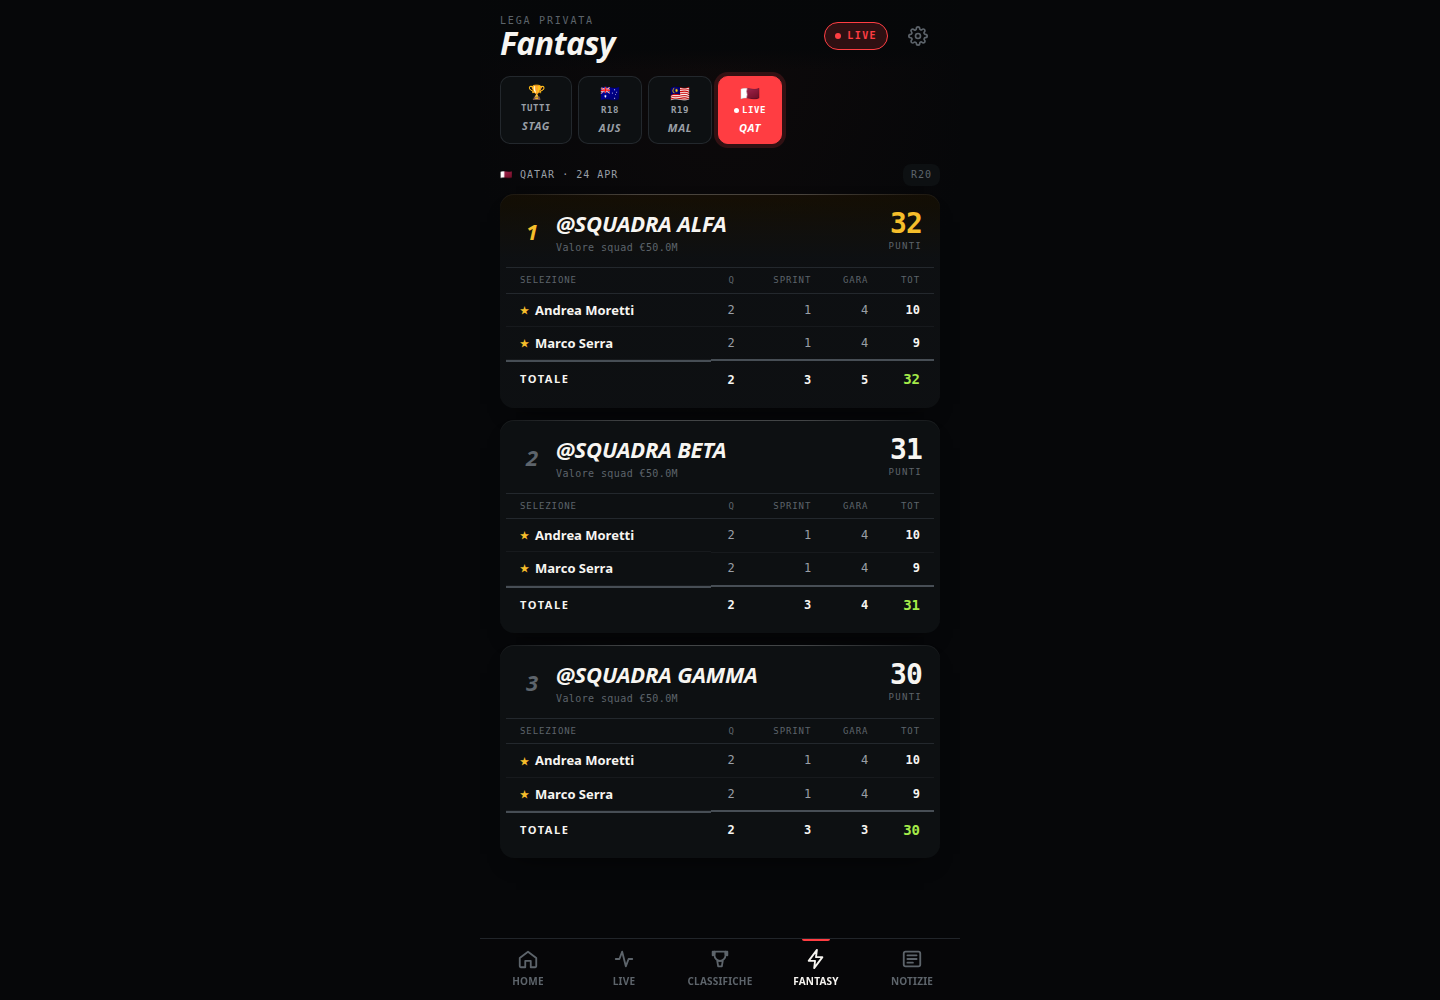
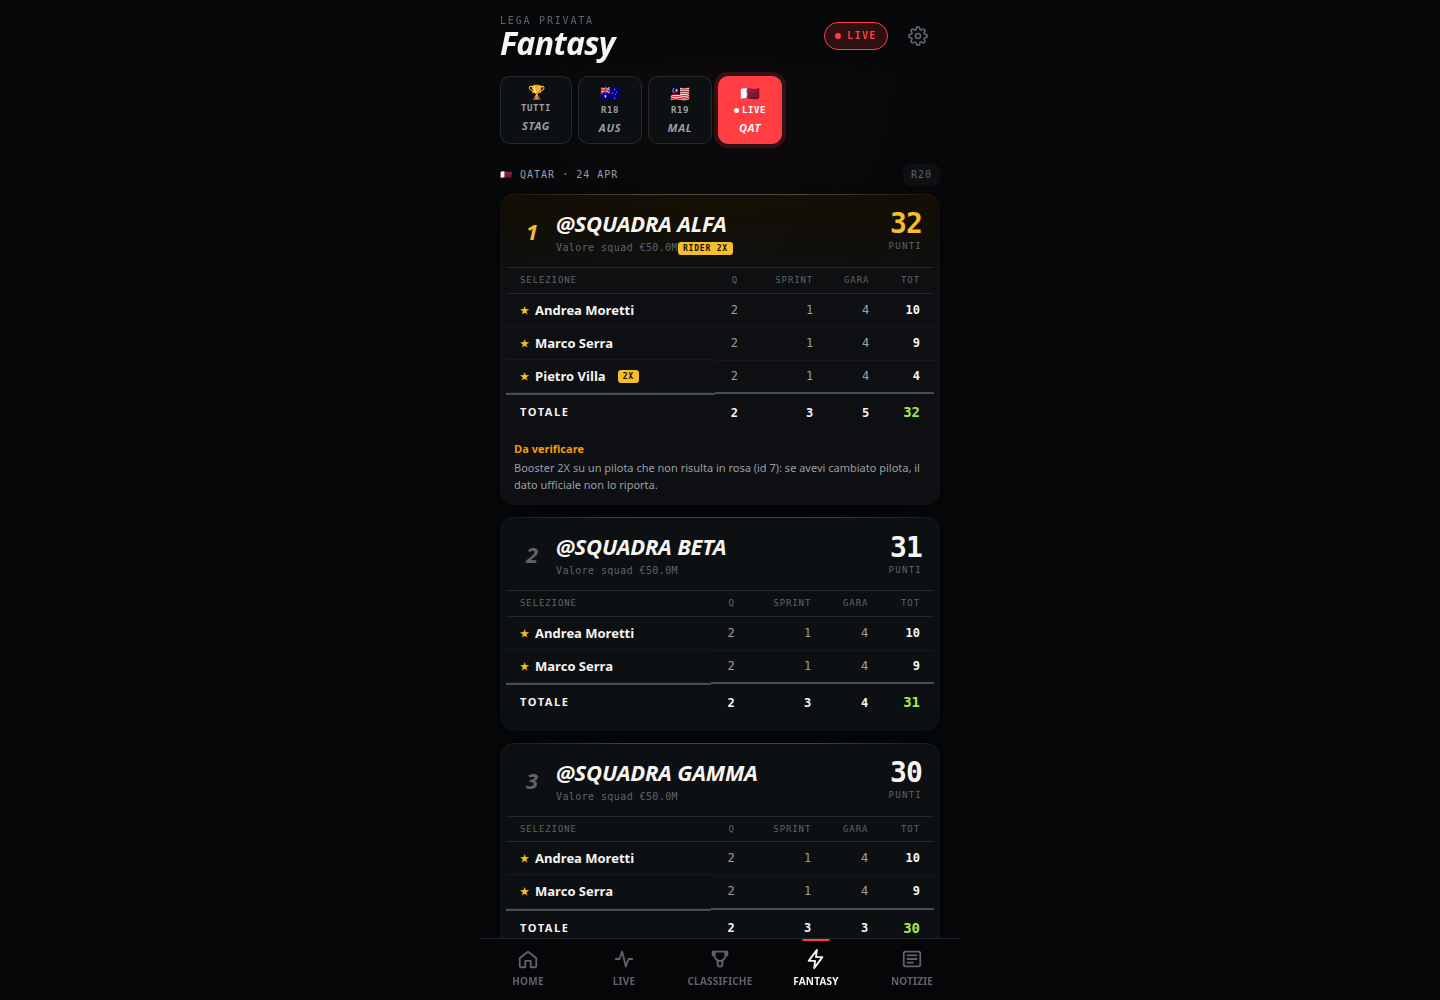
docs: allinea forma del repository, dipendenze e anteprime con avvisi visibili
- Riformulato il README secondo lo standard essenziale di Guardian Lab:
  badge versione 2.2.0, apertura diretta, sezione rapida di test ed
  esecuzione locale, spiegazione trasparente del perche' segnaliamo i
  dati non coerenti invece di riscriverli, e limiti dichiarati una volta sola.
- Aggiornato ARCHITETTURA.md alla cache boxbox-public-v22.
- Dichiarate esplicitamente in scraper/package.json le dipendenze:
  playwright-core per il rinnovo sessione headless e playwright per i test.
- Aggiornata la fixture sintetica di scraper/test-browser.mjs per includere
  una squadra con avviso: le anteprime di GP in docs/verifiche/ mostrano
  ora visivamente la card «Da verificare».
- Rimossi i sei commenti con firma assistente nel codice sorgente,
  sostituiti con la spiegazione tecnica del vincolo.

diff --git a/tab-fantasy.js b/tab-fantasy.js
@@ -162,7 +162,7 @@ export function renderSeasonView(players) {
     pricesCard());
 }
 
-// Recuperata 2026-08-08 (Claude): persa nella riscrittura dell'8/08 (commit 8f1f6f0), il backend
+// Ricostruzione della classifica aggregata quando il backend espone solo i parziali per GP: il backend
 // (compute.mjs) continuava a produrre il flag `upcoming` senza che nessuna UI lo consumasse.
 // Codice del 7/06 (commit 12ad823), invariato salvo dove annotato sotto.
 export function renderUpcomingEventView(evMeta, _ev) {
@@ -334,7 +334,7 @@ function testoAvviso(avviso) {
 export function renderEventView(evId, _players) {
   const ev = DATA.breakdown.byEvent[evId];
   const evMeta = DATA.events.find(e => e.id === evId);
-  // Bugfix 2026-08-08 (Claude): guardia evMeta ripristinata (mancava, evMeta.circuit sotto
+  // Guardia se evMeta non e' presente nel calendario (evMeta.circuit sotto
   // esploderebbe) e dispatch upcoming spostato PRIMA della guardia su standings vuote -- un GP
   // upcoming ha standings vuote per definizione, cadeva nel ramo "Nessun dato per questo GP".
   // In 12ad823 la guardia evMeta faceva `root.innerHTML = ...; return;` ma `root` non e' definito

diff --git a/README.md b/README.md
@@ -1,164 +1,127 @@
-# Box Box 🏍
+# Box Box 🏎
 
-![Vanilla JS](https://img.shields.io/badge/frontend-vanilla%20JS-f7df1e?logo=javascript&logoColor=black)
-![ES Modules](https://img.shields.io/badge/modules-native%20ES-3178c6)
-![Node.js](https://img.shields.io/badge/pipeline-Node.js-339933?logo=node.js&logoColor=white)
+![Version](https://img.shields.io/badge/version-2.2.0-blue)
+![Status](https://img.shields.io/badge/status-private%20league-blue)
+![Frontend](https://img.shields.io/badge/frontend-vanilla%20JS-f7df1e?logo=javascript&logoColor=black)
+![Modules](https://img.shields.io/badge/modules-native%20ES-3178c6)
+![Pipeline](https://img.shields.io/badge/pipeline-Node.js-339933?logo=node.js&logoColor=white)
 ![Docker](https://img.shields.io/badge/deploy-Docker-2496ed?logo=docker&logoColor=white)
 ![PWA](https://img.shields.io/badge/-PWA-5a0fc8?logo=pwa&logoColor=white)
-![License: MIT](https://img.shields.io/badge/license-MIT-green)
+![License](https://img.shields.io/badge/license-MIT-green)
 
-PWA per seguire la MotoGP 2026 e la classifica FantasyGP di una lega privata tra amici.
+PWA e pipeline dati per seguire la MotoGP e il campionato Fantasy in una lega privata tra amici.
 
-**Perché esiste**: l'app ufficiale Fantasy MotoGP è lenta e piena di pubblicità. Volevo
-qualcosa di veloce, leggero, che funzionasse anche offline — e che mi dicesse subito da dove
-arrivano i punti (quali, sprint, gara, bonus), non solo il totale.
+L'ho costruita perche' l'app ufficiale Fantasy MotoGP e' lenta, piena di annunci e mostra solo il punteggio aggregato. Volevo un'interfaccia leggera e consultabile offline che spiegasse subito da dove arrivano i punti: qualifiche, sprint, gara e bonus, pilota per pilota.
 
-**Disclaimer**: progetto personale, non affiliato a Dorna Sports / MotoGP. Usa le API
-pubbliche/autenticate di `fantasy.motogp.com`: rispetta i loro Termini di Servizio.
+> **Contesto e note legali.** Progetto personale per uso privato, non affiliato a Dorna Sports o MotoGP. Raccoglie i dati tramite le API di `fantasy.motogp.com` per i soli partecipanti alla lega.
 
-## Funzionalità
+## Provalo in due minuti
 
-- Calendario MotoGP 2026 con countdown al prossimo GP e stato live durante il weekend
-- Scheda Live: sessioni del weekend, ordine di arrivo e stato di ciascuna sessione
-- Classifica FantasyGP della lega, con breakdown punti per componente (Quali/Sprint/Gara/Bonus)
-- Andamento punti per GP, giocatore per giocatore
-- Prezzi & valore: chi sale/scende di prezzo, miglior rapporto punti/milione
-- Dettaglio pilota: andamento per GP, storico prezzo, forma recente
-- Classifiche Moto2, Moto3, WorldSBK
-- News da Motorsport.com in una scheda dedicata, con segnale di sentiment per pilota via LLM
-  (NVIDIA NIM) quando disponibile — degradazione soft se la chiave API non è configurata
-- Notifica su Discord quando un rivale della lega cambia roster prima del lock squadra
-- Notifiche in-app (Notification API) durante i weekend di gara
-- PWA installabile, funzionamento offline via service worker
+Per eseguire i test deterministici non servono credenziali, Docker o accessi di rete:
 
-## Anteprime
+```bash
+# 1. Esegui la suite di test (booster, ordinamento eventi, contratto LLM)
+bash scraper/test-audit.sh
 
-Immagini generate da `scraper/test-browser.mjs` con dati sintetici: nessun nome di giocatore reale,
-nessuna richiesta a servizi esterni. Altre viste in `docs/verifiche/`.
+# 2. Genera le 16 schermate con Chromium headless su dati sintetici
+node scraper/test-browser.mjs
 
-| Home | Live | Fantasy |
-| --- | --- | --- |
-| <img src="docs/verifiche/home-mobile.png" width="250" alt="Home: GP in corso, top 3 di stagione, leader fantasy"> | <img src="docs/verifiche/live-mobile.png" width="250" alt="Live: sessioni del weekend e tabellone della sessione in corso"> | <img src="docs/verifiche/fantasy-mobile.png" width="250" alt="Fantasy: andamento punti per GP e prezzi dei piloti"> |
+# 3. Avvia il server statico locale per navigare l'app
+python3 -m http.server 8080
+```
 
-## Stack
+Apri `http://localhost:8080`: il frontend viene eseguito direttamente dal browser senza alcuno step di compilazione.
 
-- **Frontend**: HTML/CSS/JS vanilla, **ES module nativi** (`<script type="module">`,
-  `import`/`export`) — zero dipendenze, **zero build step**. Il browser esegue i moduli così
-  come sono; il deploy è semplicemente copiare i file su un server statico.
-- **Pipeline dati**: Node.js, zero dipendenze runtime, `type: module`
-- **Server**: Docker, `nginx:alpine`
-- **PWA**: Service worker con cache network-first per i dati, cache-first per la shell
-- **Automazione**: cron adattivo (cadenza diversa idle → weekend di gara → pre-lock squadra),
-  rinnovo automatico della sessione via Playwright/Chrome DevTools Protocol
+## Interfaccia
 
-### Perché niente bundler
+Le immagini sono generate in automatico da `scraper/test-browser.mjs` con dati sintetici: nessun nome reale di giocatore, nessuna chiamata esterna.
 
-Il frontend è ~1400 righe divise in moduli per responsabilità (un file per tab, un file per lo
-stato condiviso, uno per i formatter, ecc. — vedi `Struttura` sotto). Gli ES module nativi dei
-browser moderni bastano per tenerlo leggibile senza introdurre una toolchain: niente `npm
-install`, niente step di compilazione, un `<script type="module" src="main.js">` e via.
-L'unico requisito è servire i file via HTTP (non `file://`), per via delle policy CORS sui
-moduli. La radice HTTP deve contenere solo frontend e JSON destinati al pubblico: non
-servire la radice del clone con un server generico, perché include `scraper/.env` dopo il setup.
-Il Dockerfile esistente seleziona esplicitamente i file da servire.
+| Home | Live | Fantasy (con avvisi) |
+| :---: | :---: | :---: |
+| <img src="docs/verifiche/home-mobile.png" width="250" alt="Home: GP in corso, top 3 piloti, leader lega"> | <img src="docs/verifiche/live-mobile.png" width="250" alt="Live: sessioni del weekend e tabellone tempi"> | <img src="docs/verifiche/gp-mobile.png" width="250" alt="Fantasy: dettaglio GP con blocco Da verificare"> |
 
-## Setup
+- **Home**: stato del prossimo GP, classifica sintetica piloti e leader della lega.
+- **Live**: sessioni del weekend in corso, stato, orari e tabellone con distacchi e giri completati.
+- **Classifiche**: piloti MotoGP, costruttori, team, calendario completo e classifiche Moto2, Moto3 e WorldSBK.
+- **Fantasy**: andamento punteggi per GP, storico prezzi piloti e sezione valore (punti per milione speso).
+- **Notizie**: rassegna stampa con analisi automatica del sentiment per ciascun pilota tramite LLM (NVIDIA NIM).
+- **Impostazioni**: preferenze locali, notifiche in-app e scorciatoie utili.
+
+L'archivio completo di tutte le 16 viste desktop (1440x1000) e mobile (390x844) si trova in [docs/verifiche/](docs/verifiche/LEGGIMI.md).
+
+## Trasparenza sui dati: il blocco «Da verificare»
+
+Nel gioco ufficiale capita che il sistema registri l'attivazione di un booster senza applicare i cambi di formazione associati, o che compaiano modalita' speciali non documentate come `wildcard`.
+
+BoxBox non riscrive i punteggi ufficiali: la graduatoria della lega deve coincidere con quella del regolamento. Quando un dato non e' spiegabile, il motore calcolo aggiunge un blocco giallo **«Da verificare»** nella scheda del GP e nel log del cron:
+
+1. **Booster fuori rosa**: booster 2X applicato a un pilota che non risulta tra i titolari della squadra.
+2. **Rosa invariata con booster**: formazione identica al GP precedente nonostante un booster consumato.
+3. **Booster non modellato**: uso di gettoni speciali di cui il regolamento ufficiale non descrive la formula esatta.
+
+In questo modo chi consulta l'app sa se una variazione di punti deriva dalla gara o da un'anomalia della fonte.
+
+## Architettura e scelte tecniche
+
+### Frontend no-build
+Il frontend (~1400 righe di codice) usa ES modules nativi del browser (`<script type="module">`). Nessun bundler, nessun framework, nessun `npm install`:
+- **Nodi DOM sicuri** (`dom.js`): i dati esterni vengono inseriti solo come testo (`textContent`), mai interpretati come codice HTML.
+- **Service Worker** (`sw.js`): cache-first per i file dell'applicazione (versione `boxbox-public-v22`), network-first con fallback offline per i file JSON dei dati.
+- **Stato reattivo minimale** (`state.js`, `ui.js`): routing basato su hash (`#/live`, `#/fantasy`), rendering mirato della sola vista attiva.
+
+### Pipeline dati
+La pipeline gira sotto Node.js ed e' orchestrata da cron con cadenze adattive:
+- **Regime orario**: aggiornamento classifiche e rose durante la settimana.
+- **Regime weekend di gara**: controlli frequenti (ogni 2-15 minuti) durante le sessioni in pista.
+- **Pre-lock squadra**: monitoraggio delle modifiche dell'ultimo minuto con notifiche via webhook Discord.
+- **Rinnovo sessione**: recupero headless del token di sessione Dorna tramite Chromium (`scraper/renew-dat.mjs`).
+
+### Dipendenze
+- **Browser e calcolo punteggi**: zero dipendenze esterne.
+- **Rinnovo automatico della sessione**: `playwright-core` (eseguito dal cron sul server).
+- **Verifica grafica con screenshot**: `playwright` (strumento di sviluppo e CI).
+
+## Setup per la produzione
 
 ```bash
 cd scraper
-cp .env.example .env   # compila LEAGUE_ID, credenziali, RIVALS, webhook Discord (tutto opzionale
-                        # tranne le credenziali Fantasy — vedi i commenti nel file)
+cp .env.example .env   # inserisci LEAGUE_ID e credenziali Dorna
 cd ..
-bash cron/boxbox-cron.sh   # primo giro: popola data/ (pubblici + autenticati + breakdown)
-bash cron/boxbox-news.sh   # opzionale: news + classifiche Moto2/Moto3/WSBK
 
-docker compose up --build
+# Primo popolamento dati
+bash cron/boxbox-cron.sh
+bash cron/boxbox-news.sh
+
+# Avvio del container Nginx
+docker compose up -d --build
 ```
 
-`cron/boxbox-cron.sh` è anche l'unico posto che sa pubblicare i JSON generati da `scraper/`
-dentro `data/` (i moduli `scraper/*.mjs` scrivono nella propria cartella, non nella web root) —
-lanciare i comandi `node` uno per uno senza passare da lì lascerebbe `data/` vuota e ogni
-`fetch()` del frontend fallirebbe in silenzio.
+I file generati vengono scritti dentro `data/`, cartella montata in sola lettura nel container web.
 
-## Verifica locale
+## Verifiche e test automatici
 
-Da root del clone: `bash scraper/test-audit.sh`. Non richiede credenziali o rete e usa fixture
-sintetiche; include booster, calendario, rendering e contratto delle classificazioni news.
-Il vecchio `test-weekend-pipeline.mjs` è anche un controllo di dati locali generati, non un gate
-ermetico per un clone vuoto: i suoi controlli su copie delle regole non sostituiscono questi test.
+Il progetto include suite di test isolate:
 
-Il controllo browser opzionale è `node scraper/test-browser.mjs`, con Playwright e un
-Chromium già installati; `BOXBOX_CHROMIUM` può indicare l'eseguibile locale. Non installa nulla,
-serve solo una lista esplicita di file su loopback, blocca richieste esterne e salva screenshot
-con dati sintetici in `docs/verifiche/`. Non avvia finestre interattive.
+```bash
+# Test unitari deterministici (48 asserzioni su booster, logica e avvisi)
+npm --prefix scraper test
 
-Architettura: [ARCHITETTURA.md](ARCHITETTURA.md). Esito e limiti dell'audit:
-[docs/audit-2026-11-05.md](docs/audit-2026-11-05.md).
+# Test integrazione cronologia eventi e contratti news
+node scraper/test-event-order.mjs
+node scraper/test-news-classification.mjs
 
-## Struttura
-
-```
-index.html                  Shell HTML statica + <script type="module" src="main.js">
-styles.css                  Design system (un solo file, nessun preprocessore)
-main.js                     Entry point: registra il service worker, avvia il caricamento dati
-state.js                    Stato condiviso (DATA + tab/GP selezionati)
-dom.js                      Costruzione dei nodi DOM: i testi esterni restano testo, non markup
-data.js                     load() / refreshData() — fetch e popolamento di DATA
-format.js, selectors.js,    Helper puri: formattazione e policy URL, derivazioni sui dati,
-  analysis.js, countdown.js   metriche prezzo/valore/forma, countdown
-event-order.js              Ordine cronologico condiviso (order, fallback data; mai ID)
-boosters.js                 Regola booster Fantasy (rider 2X, golden, super 2X):
-                             la usano tab-fantasy.js e scraper/compute.mjs
-ui.js                       Navigazione tra tab, orchestrazione del render
-tab-home.js                 Tab Home (countdown, top3, anteprima news)
-tab-live.js                 Tab Live (sessioni del weekend, risultati)
-tab-standings.js            Tab Campionato (piloti/costruttori/team/calendario/altre serie)
-tab-fantasy.js              Tab Fantasy (classifica stagione, dettaglio GP)
-tab-news.js                 Tab Notizie
-tab-other.js                Pannello Impostazioni (preferenze, link utili)
-pull-to-refresh.js,         Pull-to-refresh, notifiche in-app, auto-refresh nei weekend
-  notifications.js,
-  auto-refresh.js
-sw.js                       Service worker (cache shell + dati)
-
-data/                       JSON generati dalla pipeline (non versionati, li crea/aggiorna
-                             cron/boxbox-cron.sh) — è qui che il frontend fa fetch()
-
-scraper/
-├── fetch-data.mjs          Leaderboard + roster squadre da fantasy.motogp.com
-├── fetch-teams.mjs         Fetch leggero del solo GP in pre-show (per il watcher rivali)
-├── fetch-news.mjs          RSS Motorsport.com, raggruppamento per GP imminente
-├── fetch-other-categories.mjs  Classifiche Moto2/Moto3/WSBK da Wikipedia
-├── fetch-rider-history.mjs Storico piloti per circuito/meteo da API MotoGP, 1x/stagione
-├── fetch-weekend.mjs       Sessioni e risultati del weekend da API MotoGP pubblica
-├── analyze-news.mjs        Classificazione sentiment news per pilota via LLM (opzionale)
-├── compute.mjs             Calcolo breakdown punti (Quali/Sprint/Gara/Bonus)
-├── team-diff.mjs           Diff roster rivali tra GP, anti-spam a due fasi
-├── refresh-session.mjs     Verifica validità sessione/cookie
-├── renew-dat.mjs           Rinnovo automatico cookie via Playwright/CDP
-├── test-boosters.mjs       Test della regola booster condivisa (modulo + compute.mjs)
-├── test-event-order.mjs    Test dell'ordine cronologico e del watcher rivali
-├── test-news-classification.mjs  Test del contratto di classificazione news
-├── test-browser.mjs        Controllo browser opzionale (Playwright)
-├── test-weekend-pipeline.mjs  Test suite dry-run della pipeline
-└── .env.example            Template configurazione
-
-cron/
-├── boxbox-cron.sh                  Pipeline oraria (dati + calcolo + storico piloti 1x/stagione)
-├── boxbox-news.sh                  News + classifiche altre categorie, 2x/giorno
-├── boxbox-race-watch.sh            Cadenza adattiva durante i weekend di gara
-├── boxbox-news-signal-watch.sh     Cadenza adattiva pre-lock squadra + watcher rivali
-├── race-phase.py, news-signal-phase.py   "Cervello" delle cadenze adattive
-├── nvidia-model-health.py          Sceglie il modello LLM più sano tra quelli disponibili
-└── notify-discord.sh               Notifiche (DAT scaduto, cambi rivali, ecc.)
+# Test end-to-end con Chromium headless (desktop e mobile)
+node scraper/test-browser.mjs
 ```
 
-## Pipeline
+Documentazione dettagliata dell'architettura: [ARCHITETTURA.md](ARCHITETTURA.md).
 
-Cron orario: dati pubblici + autenticati, calcolo breakdown. Cron adattivo durante i weekend di
-gara e nella finestra prima del blocco squadra (fino a ogni 2-15 minuti, altrimenti idle). Cron
-2x/giorno: news + classifiche Moto2/Moto3/WSBK.
+## Limiti noti
+
+- **Dipendenza da API esterne**: se Dorna modifica gli endpoint non documentati o la struttura del login, la pipeline richiede un aggiornamento manuale.
+- **Rinnovo headless**: dipende dalla stabilita' visiva della pagina di autenticazione Dorna.
+- **Regole speciali**: gettoni come `wildcard` restano segnalati come non modellati finche' la formula dei punti non viene chiarita ufficialmente.
 
 ## Licenza
 
-MIT — vedi [LICENSE](LICENSE).
+MIT. Vedi [LICENSE](LICENSE).

diff --git a/ARCHITETTURA.md b/ARCHITETTURA.md
@@ -53,7 +53,7 @@ nginx e la politica di esposizione devono essere verificate dal gestore del depl
 server o container è stato modificato in questo audit.
 
 Il service worker precachea la shell; le modifiche alla shell richiedono un nuovo nome di
-cache. La versione di questa revisione è `boxbox-public-v21`, indipendente dalla numerazione
+cache. La versione di questa revisione è `boxbox-public-v22`, indipendente dalla numerazione
 del deploy privato. I dati usano network-first con fallback offline; `sw-stale` è un'indicazione,
 non una certificazione di coerenza fra file. La shell non contiene moduli che non esistono in
 questo repository.
